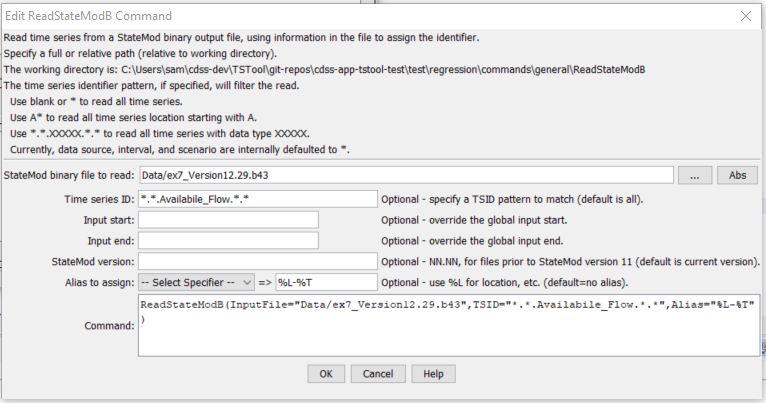
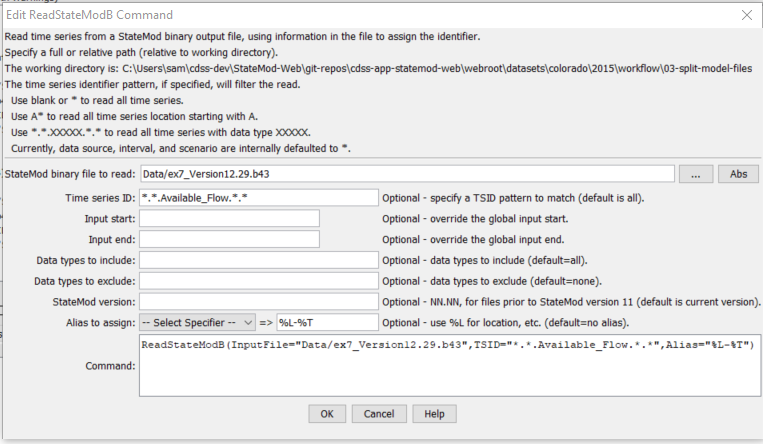
Update documentation for StateMod dataset publishing, issue #54
ReadStateMod and ReadStateCU, ReadStateModB, WriteStateMod, CreateFolder.

Changed region(s): [[0.0, 0.0, 1.0, 0.9826], [0.0, 0.7444, 0.0301, 0.7742], [0.0, 0.4764, 0.0301, 0.5062]]

diff --git a/mkdocs-project/docs/command-ref/ReadStateModB/ReadStateModB.md b/mkdocs-project/docs/command-ref/ReadStateModB/ReadStateModB.md
@@ -19,14 +19,26 @@ limit the time series that are read using the `TSID` parameter.
 
 ## Command Editor ##
 
-The following dialog is used to edit the command and illustrates the syntax of the command.
+The following dialog is used to edit the command and illustrates the syntax of the command for
+reading `Available_Flow` output parameter for all locations.
 
 **<p style="text-align: center;">
 ![ReadStateModB](ReadStateModB.png)
 </p>**
 
 **<p style="text-align: center;">
-`ReadStateModB` Command Editor (<a href="../ReadStateModB.png">see also the full-size image</a>)
+`ReadStateModB` Command Editor when Matching a TSID Pattern (<a href="../ReadStateModB.png">see also the full-size image</a>)
+</p>**
+
+The following example illustrates how to specify multiple data types (parameters) to read,
+in order to limit the number of time series that are read.
+
+**<p style="text-align: center;">
+![ReadStateModB-IncludeDataTypes](ReadStateModB-IncludeDataTypes.png)
+</p>**
+
+**<p style="text-align: center;">
+`ReadStateModB-IncludeDataTypes` Command Editor when Matching Multiple Data Types (<a href="../ReadStateModB-IncludeDataTypes.png">see also the full-size image</a>)
 </p>**
 
 ## Command Syntax ##
@@ -40,12 +52,14 @@ ReadStateModB(Parameter="Value",...)
 Command Parameters
 </p>**
 
-|**Parameter**&nbsp;&nbsp;&nbsp;&nbsp;&nbsp;&nbsp;&nbsp;&nbsp;&nbsp;&nbsp;&nbsp;|**Description**|**Default**&nbsp;&nbsp;&nbsp;&nbsp;&nbsp;&nbsp;&nbsp;&nbsp;&nbsp;&nbsp;&nbsp;&nbsp;&nbsp;&nbsp;&nbsp;&nbsp;&nbsp;&nbsp;&nbsp;&nbsp;&nbsp;&nbsp;&nbsp;&nbsp;&nbsp;&nbsp;&nbsp;|
+|**Parameter**&nbsp;&nbsp;&nbsp;&nbsp;&nbsp;&nbsp;&nbsp;&nbsp;&nbsp;&nbsp;&nbsp;&nbsp;&nbsp;&nbsp;&nbsp;&nbsp;&nbsp;|**Description**|**Default**&nbsp;&nbsp;&nbsp;&nbsp;&nbsp;&nbsp;&nbsp;&nbsp;&nbsp;&nbsp;&nbsp;&nbsp;&nbsp;&nbsp;&nbsp;&nbsp;&nbsp;&nbsp;&nbsp;&nbsp;&nbsp;&nbsp;&nbsp;&nbsp;&nbsp;&nbsp;&nbsp;|
 |--------------|-----------------|-----------------|
 |`InputFile`<br>**required**|The name of the StateMod binary time series file to read, surrounded by double quotes.  The path to the file can be absolute or relative to the working directory.  Global property values can be inserted using the syntax `${PropertyName}`.|None – must be specified.|
 |`TSID`|Time series identifier pattern to filter the read.  Use periods to indicate separate TSID parts and use * to match patterns within the parts.|Read all time series.|
 |`InputStart`|The starting date/time to read data, specified to Day or Month precision based on whether a daily or monthly model run.|Read all data.|
 |`InputEnd`|The ending date/time to read data, specified to Day or Month precision based on whether a daily or monthly model run.|Read all data.|
+|`IncludeDataTypes`| List of data types to incluce, separated by spaces.  This is checked after `TSID`. | Include all.|
+|`ExcludeDataTypes`| List of data types to exclude, separated by spaces.  This is checked after `IncludeDataTypes`. | Exclude none. |
 |`Version`|StateMod version number using the form `NN.NN` (padded with leading zero for version 9) corresponding to the file, necessary because the file version number (and consequently parameters) cannot be automatically detected in older versions.  Changes in binary file format occurred with version 9.01 and 9.69, mainly to add new data types.  The StateMod file version for version 11+ is automatically detected.|Detect from the file if possible.|
 |`Alias`|The alias to assign to the time series that are read.  Use the format choices and other characters to define a unique alias.|No alias is assigned.|
 

diff --git a/mkdocs-project/docs/appendix-release-notes/release-notes-13.md b/mkdocs-project/docs/appendix-release-notes/release-notes-13.md
@@ -13,8 +13,16 @@
 properties are recognized whether or not `[TSTool]` is at the top of the file.
 * ![bug](bug.png) [13.03.00] Change the [`RunProgram`](../command-ref/CompareFiles/CompareFiles.md) command
 ***Visual Diff*** feature to work when files use property in the name.
+* ![bug](bug.png) [13.03.00] Update the
+[`ReadStateCU`](../command-ref/ReadStateCU/ReadStateCU.md) and
+[`ReadStateMod`](../command-ref/ReadStateMod/ReadStateMod.md)
+commands to better handle `${Property}` in the `InputFile` parameter.
 * ![bug](bug.png) [13.03.00] Update the [`RunProgram`](../command-ref/RunProgram/RunProgram.md) command to work on Linux.
 Also add the `EnvVars`, `IfNonZeroExitCode`, `StderrFile`, and `StdoutFile` parameters.
+* ![bug](bug.png) [13.03.00] Update the
+[`WriteStateCU`](../command-ref/WriteStateCU/WriteStateCU.md) and
+[`WriteStateMod`](../command-ref/WriteStateMod/WriteStateMod.md)
+commands to enable `TSID` to handle `${Property}`, as was previously documented.
 * ![change](change.png) [13.03.00] All command editors have been updated to implement ***...***, ***Abs***, and ***Rel***
 buttons to select files and folders and switch between absolute and relative paths,
 with default being to use relative path.
@@ -42,6 +50,11 @@ additional functionality has been added for strings, and string operations have 
 * ![change](change.png) [13.03.00] Update the [`NewTable`](../command-ref/NewTable/NewTable.md) command to support arrays.
 * ![change](change.png) [13.03.00] Update the [`ProcessTSProduct`](../command-ref/ProcessTSProduct/ProcessTSProduct.md)
 command to output the time series product file to reflect the full product definition.
+* ![change](change.png) [13.03.00] Update the [`ReadStateCU`](../command-ref/ReadStateCU/ReadStateCU.md)
+command to have `Alias` parameter to assign an alias to time series.
+* ![change](change.png) [13.03.00] Update the
+[`ReadStateModB`](../command-ref/ReadStateModB/ReadStateModB.md) command
+to add `IncludeDataTypes` and `ExcludeDataTypes` parameters, which limits the time series that are read
 * ![change](change.png) [13.03.00] Update the [`ReadTableFromDBF`](../command-ref/ReadTableFromDBF/ReadTableFromDBF.md) command to covert column data types.
 * ![change](change.png) [13.03.00] Update the [`RunningStatisticTimeSeries`](../command-ref/RunningStatisticTimeSeries/RunningStatisticTimeSeries.md) command
 to add statistics:  `Change`, `ChangeAbs`, `ChangeFraction`, `ChangeFractionAbs`, `ChangePercent`, `ChangePercentAbs`, `NewMax`, and `NewMin`.
@@ -64,6 +77,7 @@ to change interval of irregular interval time series to regular interval, simple
 [`ChangeInterval`](../command-ref/ChangeInterval/ChangeInterval.md) command
 * ![new](new.png) [13.03.00] Add the [`Continue`](../command-ref/Continue/Continue.md) command to jump to end of 
 [`For`](../command-ref/For/For.md) loop block
+* ![new](new.png) [13.03.00] Add the [`CreateFolder`](../command-ref/CreateFolder/CreateFolder.md) command to create a folder
 * ![new](new.png) [13.03.00] Add the [`FormatFile`](../command-ref/FormatFile/FormatFile.md) command to format a file for output,
 including for web
 * ![new](new.png) [13.03.00] Add the [`RunR`](../command-ref/RunR/RunR.md) command to run `R` scripts.

diff --git a/mkdocs-project/docs/command-ref/CreateFolder/CreateFolder.md b/mkdocs-project/docs/command-ref/CreateFolder/CreateFolder.md
@@ -1,0 +1,54 @@
+# TSTool / Command / CreateFolder #
+
+* [Overview](#overview)
+* [Command Editor](#command-editor)
+* [Command Syntax](#command-syntax)
+* [Examples](#examples)
+* [Troubleshooting](#troubleshooting)
+* [See Also](#see-also)
+
+-------------------------
+
+## Overview ##
+
+The `CreateFolder` command creates a folder (directory).
+
+## Command Editor ##
+
+The following dialog is used to edit the command and illustrates the command syntax.
+
+**<p style="text-align: center;">
+![CreateFolder](CreateFolder.png)
+</p>**
+
+**<p style="text-align: center;">
+`CreateFolder` Command Editor (<a href="../CreateFolder.png">see also the full-size image</a>)
+</p>**
+
+## Command Syntax ##
+
+The command syntax is as follows:
+
+```text
+CreateFolder(Parameter="Value",...)
+```
+**<p style="text-align: center;">
+Command Parameters
+</p>**
+
+| **Parameter**&nbsp;&nbsp;&nbsp;&nbsp;&nbsp;&nbsp;&nbsp;&nbsp;&nbsp;&nbsp;&nbsp;&nbsp;&nbsp;&nbsp;&nbsp;&nbsp;&nbsp;&nbsp;&nbsp;&nbsp;&nbsp;&nbsp;&nbsp;&nbsp;&nbsp;&nbsp; | **Description** | **Default**&nbsp;&nbsp;&nbsp;&nbsp;&nbsp;&nbsp;&nbsp;&nbsp;&nbsp;&nbsp; |
+| --------------|-----------------|----------------- |
+| `Folder`<br>**required** | The name of the folder to create, typically a path relative to the command file.  Can be specified using `${Property}`. | None - must be specified. |
+| `CreateParentFolders` | Indicate whether to create parent folders if they do not exist:<ul><li>`False` - do not create parent folders, generate a warning</li><li>`True` - create parent folders if they do not exist</li></ul> | `False` |
+| `IfFolderExists` | Indicate an action if the folder exists:<ul><li>`Ignore` - ignore and do not warn</li><li>`Warn` - generate a warning message</li><li>`Fail` - generate a failure message</li></ul> | `Warn` |
+
+## Examples ##
+
+See the [automated tests](https://github.com/OpenCDSS/cdss-app-tstool-test/tree/master/test/regression/commands/general/CreateFolder).
+
+## Troubleshooting ##
+
+## See Also ##
+
+* [`CopyFile`](../CopyFile/CopyFile.md) command
+* [`RemoveFile`](../RemoveFile/RemoveFile.md) command

diff --git a/mkdocs-project/docs/command-ref/ReadStateMod/ReadStateMod.md b/mkdocs-project/docs/command-ref/ReadStateMod/ReadStateMod.md
@@ -72,7 +72,7 @@ ReadStateMod(Parameter="Value",...)
 Command Parameters
 </p>**
 
-|**Parameter**&nbsp;&nbsp;&nbsp;&nbsp;&nbsp;&nbsp;&nbsp;&nbsp;&nbsp;&nbsp;&nbsp;&nbsp;&nbsp;&nbsp;&nbsp;&nbsp;&nbsp;&nbsp;&nbsp;|**Description**|**Default**&nbsp;&nbsp;&nbsp;&nbsp;&nbsp;&nbsp;&nbsp;&nbsp;&nbsp;&nbsp;&nbsp;&nbsp;&nbsp;&nbsp;&nbsp;&nbsp;&nbsp;&nbsp;&nbsp;&nbsp;&nbsp;&nbsp;&nbsp;&nbsp;&nbsp;&nbsp;&nbsp;&nbsp;&nbsp;|
+|**Parameter**&nbsp;&nbsp;&nbsp;&nbsp;&nbsp;&nbsp;&nbsp;&nbsp;&nbsp;&nbsp;&nbsp;&nbsp;&nbsp;&nbsp;&nbsp;&nbsp;&nbsp;&nbsp;&nbsp;&nbsp;&nbsp;|**Description**|**Default**&nbsp;&nbsp;&nbsp;&nbsp;&nbsp;&nbsp;&nbsp;&nbsp;&nbsp;&nbsp;&nbsp;&nbsp;&nbsp;&nbsp;&nbsp;&nbsp;&nbsp;&nbsp;&nbsp;&nbsp;&nbsp;&nbsp;&nbsp;&nbsp;&nbsp;&nbsp;&nbsp;&nbsp;&nbsp;|
 |--------------|-----------------|-----------------|
 |`InputFile`<br>**required**|The name of the StateMod time series file to read, surrounded by double quotes.  The path to the file can be absolute or relative to the working directory.  Global property values can be inserted using the syntax `${PropertyName}`.|None – must be specified.|
 |`InputStart`|The start of the period to read data – specify if the period should be different from the global query period.  Specify to a precision that matches the data.  If reading water rights, the output time series will start on this date.|Use the global query period or if not specified read all data. The default for water rights is the date of the first right.|
